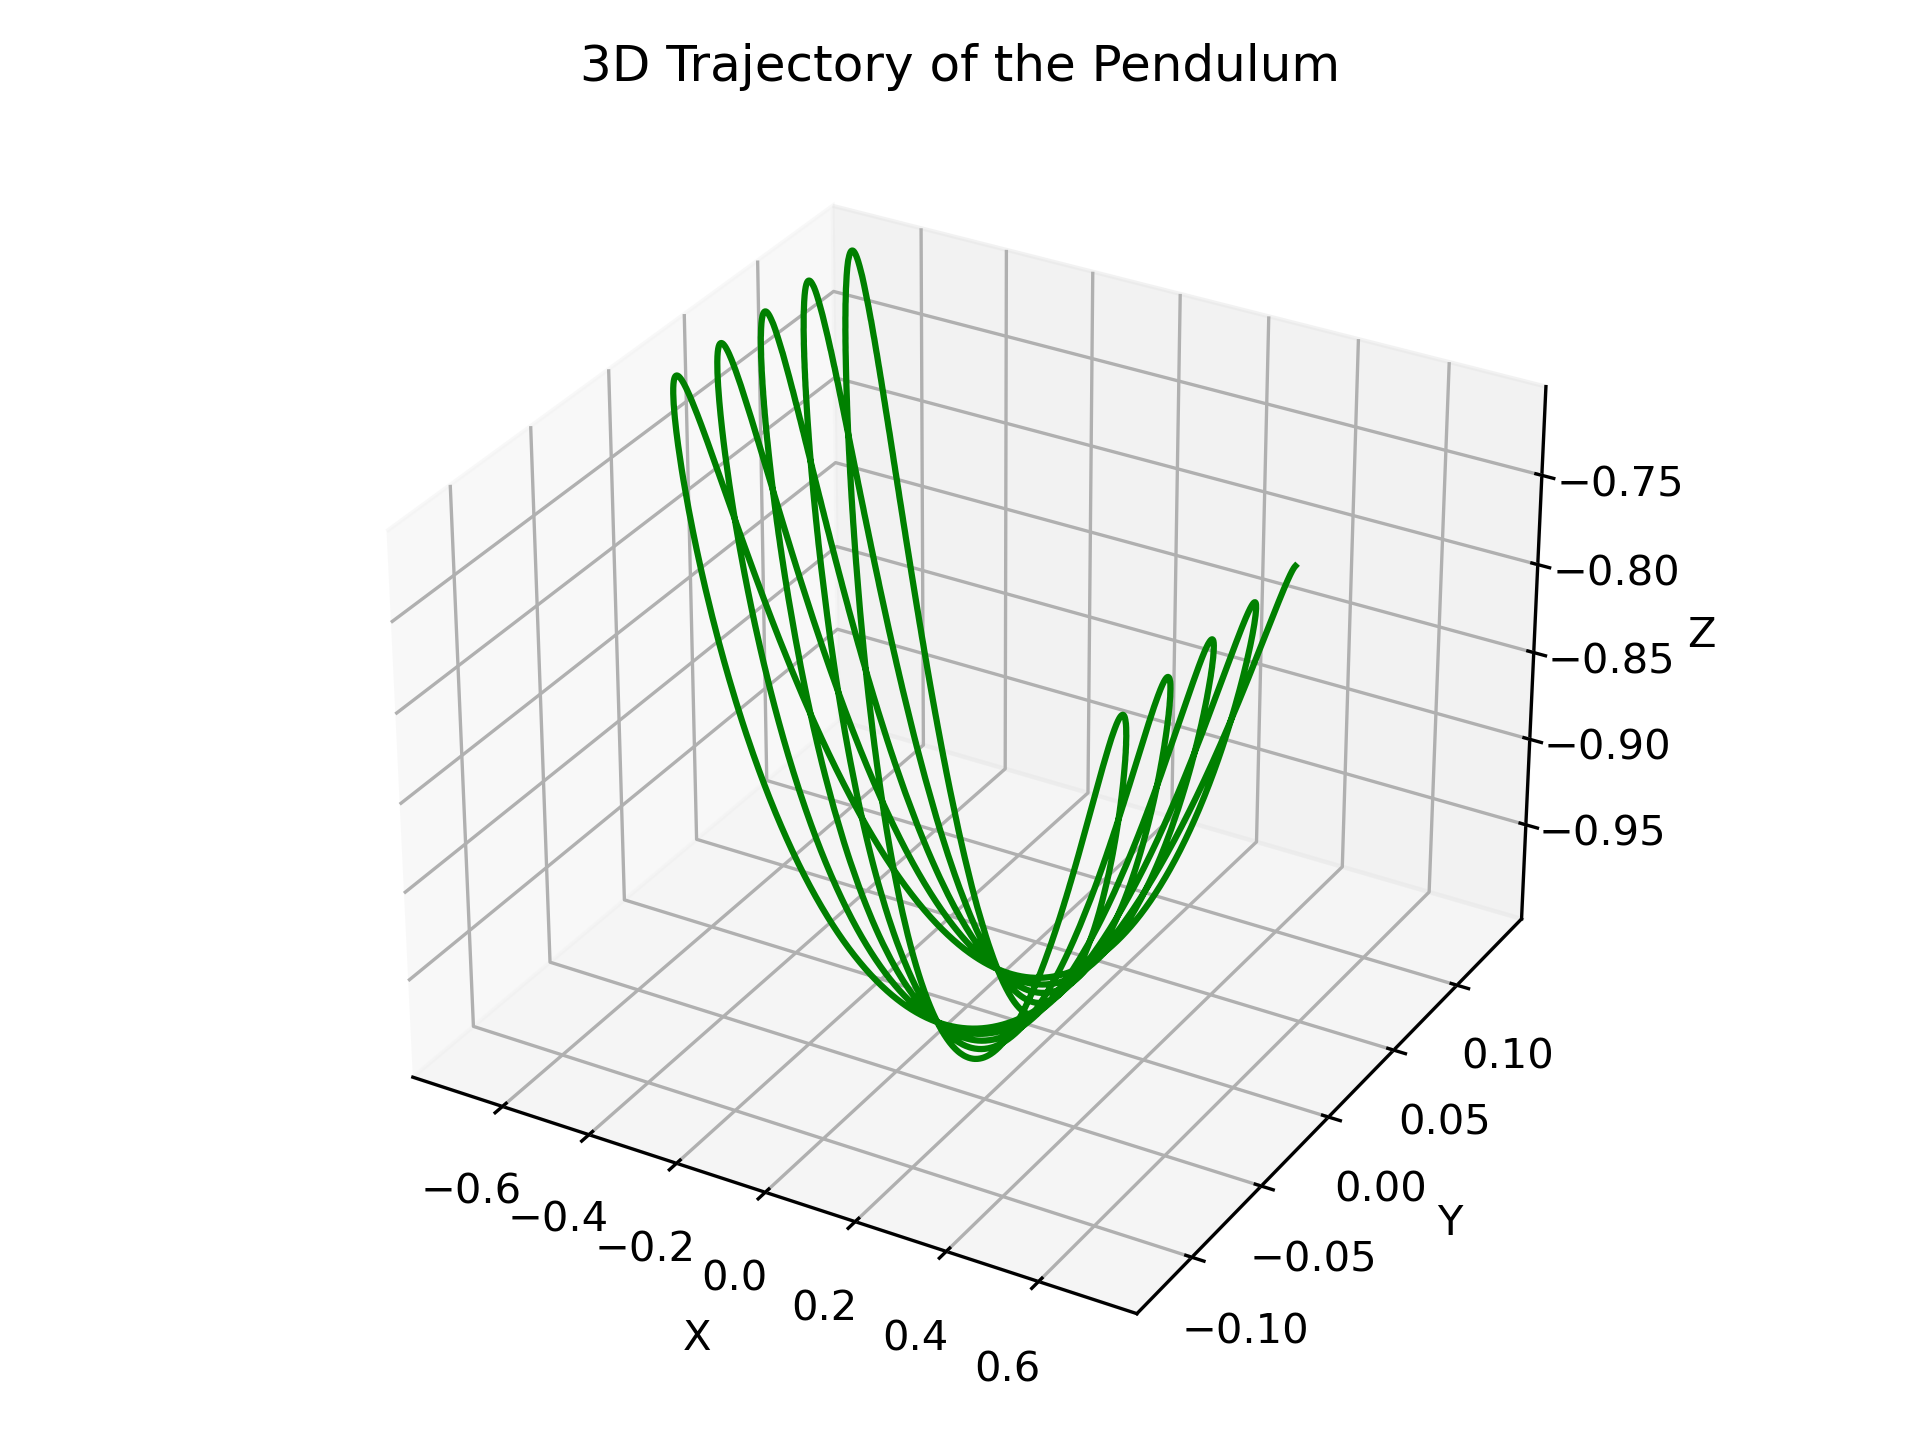
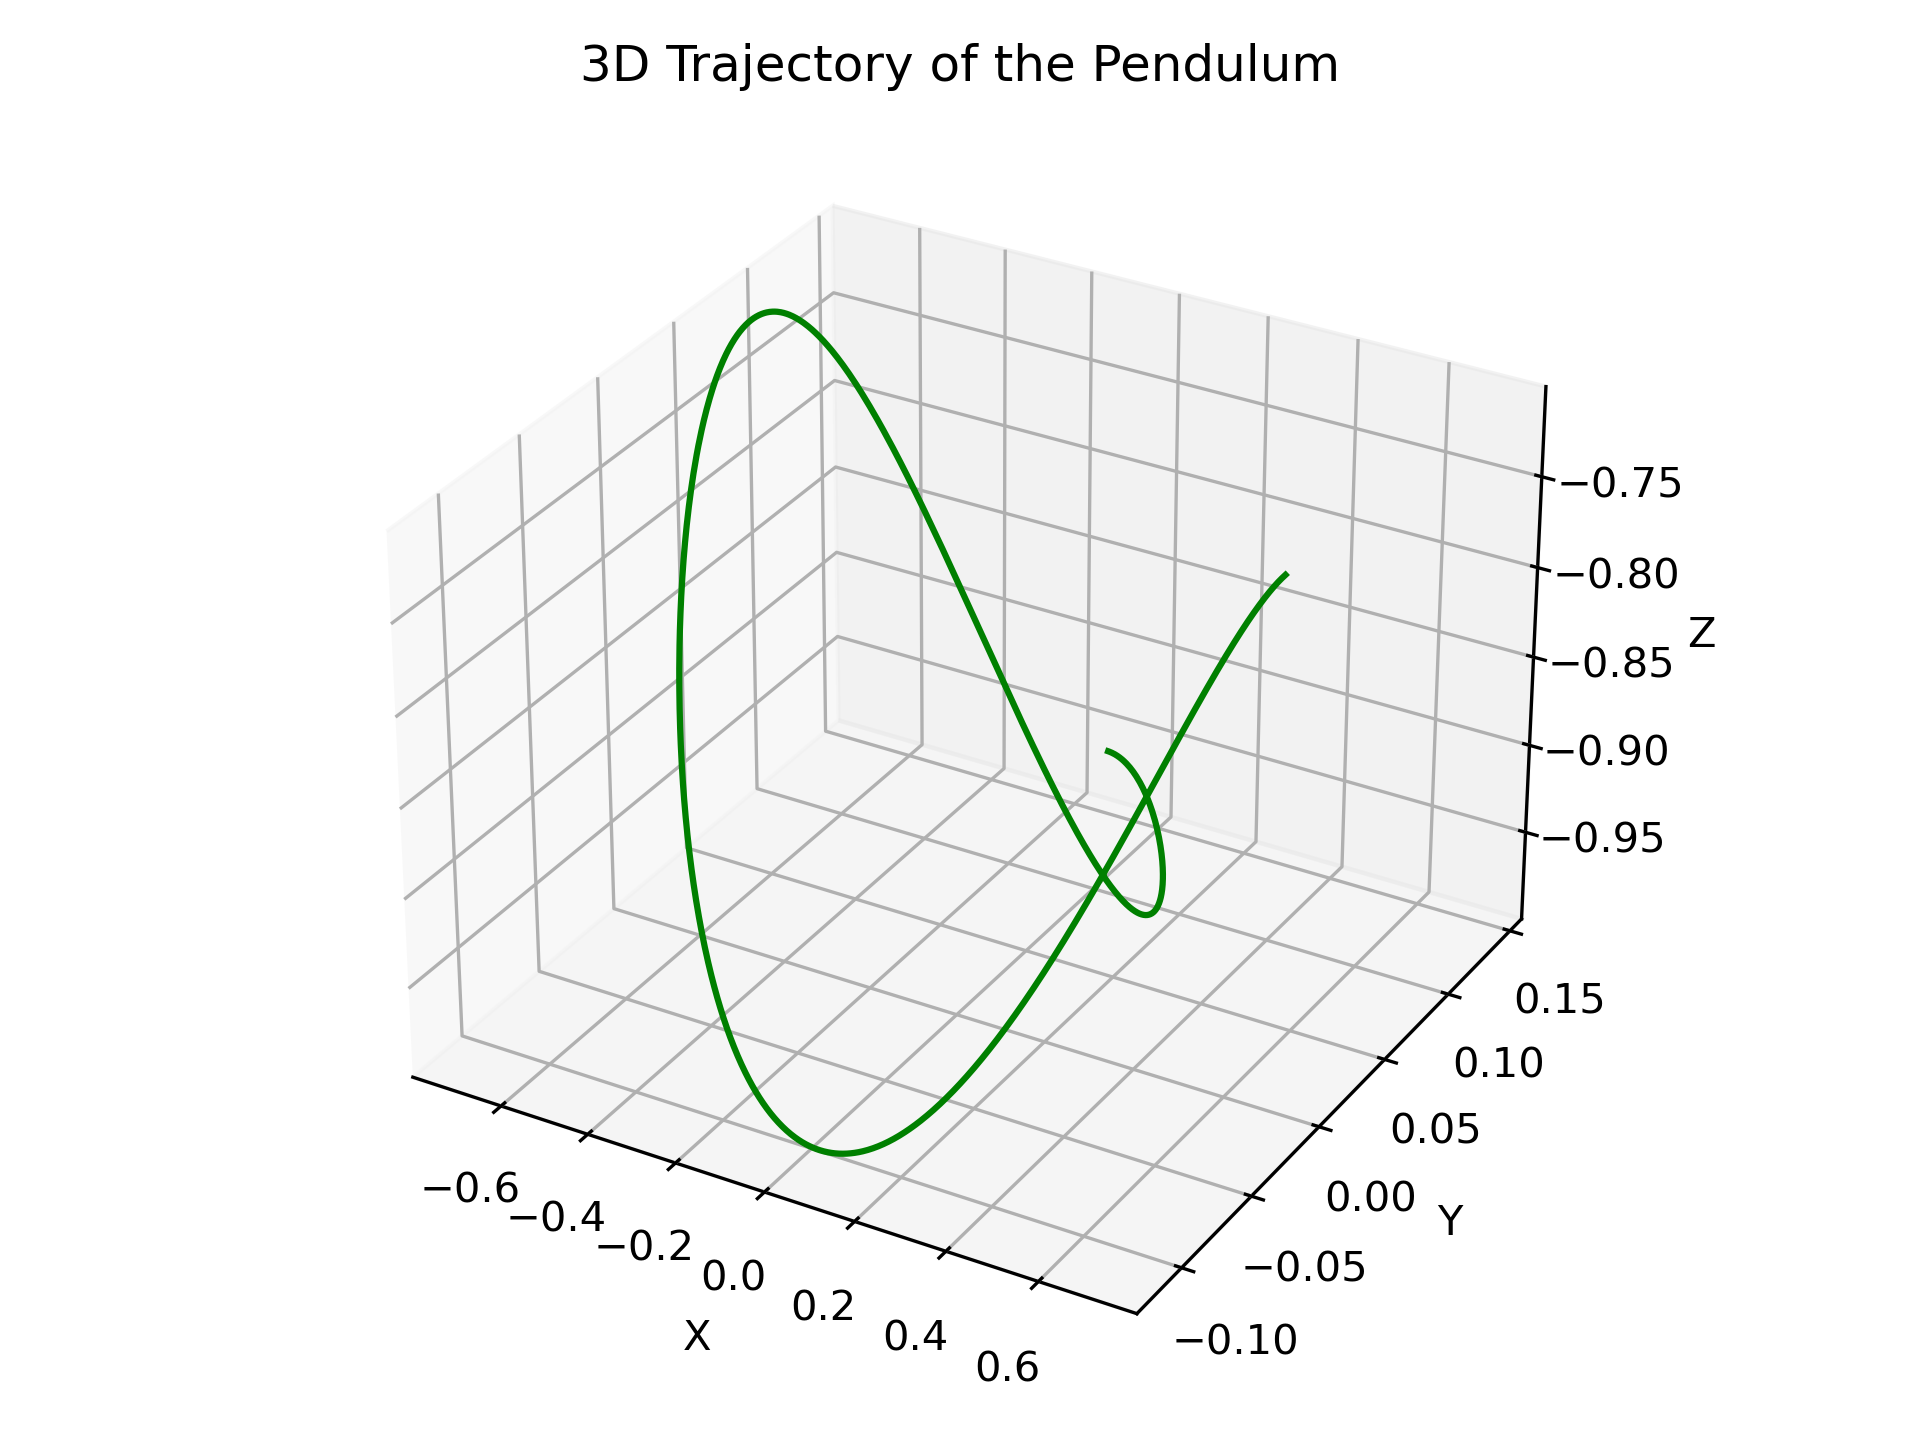
clean the main.cpp and simple_pendulum_plot.py files

diff --git a/src/main.cpp b/src/main.cpp
@@ -3,13 +3,13 @@
 
 #include<iostream>
 
-int main(){
+void exe_simple_pendulum(){
     //////////////////////////////// Simple Pendulum Simulation ////////////////////////////////
     // Définition des paramètres du pendule simple
     double length = 1.0;      // Longueur du pendule en mètres
     double mass = 1.0;        // Masse du pendule en kg
     double time_step = 0.001;  // Pas de temps en secondes
-    double final_time = 10; // Temps final en secondes
+    double final_time = 2; // Temps final en secondes
 
     // Création de l'objet SimplePendulum
     SimplePendulum pendulum(length, mass, time_step, final_time);
@@ -18,7 +18,7 @@ int main(){
     double theta0 = M_PI / 4;   // Angle initial (45 degrés) (Ne doit pas être égal à 0 pour observer le mouvement)
     double dtheta0 = 0.0;       // Vitesse angulaire initiale
     double phi0 = 0.0;          // Angle azimutal initial
-    double dphi0 = -0.1;         // Vitesse angulaire azimutale initiale
+    double dphi0 = -0.5;         // Vitesse angulaire azimutale initiale
 
     pendulum.initial_conditions(theta0, dtheta0, phi0, dphi0);
 
@@ -38,25 +38,27 @@ int main(){
     if (result != 0) {
         std::cerr << "Error executing plotting script." << std::endl;
     }
+}
 
+void exe_double_pendulum(){
     //////////////////////////////// Double Pendulum Simulation ////////////////////////////////
     // Définition des paramètres du double pendule
     double length1 = 1.0;      // Longueur du premier pendule en mètres
     double length2 = 1.0;      // Longueur du second pendule en mètres
     double mass1 = 1.0;        // Masse du premier pendule en kg
     double mass2 = 1.0;        // Masse du second pendule en kg
-    time_step = 0.001;  // Pas de temps en secondes
-    final_time = 100; // Temps final en secondes
+    double time_step = 0.001;  // Pas de temps en secondes
+    double final_time = 100; // Temps final en secondes
 
     // Création de l'objet DoublePendulum
     DoublePendulum double_pendulum(length1, length2, mass1, mass2, time_step, final_time);
 
     // Définition des conditions initiales
     double q1 = 0.0;   // Coordonnée stéréographique du premier pendule
-    double q2 = -0.1;   // Coordonnée stéréographique du premier pendule
-    double q3 = 0.1;   // Coordonnée stéréographique du second pendule
+    double q2 = -0.5;   // Coordonnée stéréographique du premier pendule
+    double q3 = 0.5;   // Coordonnée stéréographique du second pendule
     double q4 = 0.0;   // Coordonnée stéréographique du second pendule
-    double p1 = 0.1;   // Impulsion stéréographique du premier pendule
+    double p1 = 0.5;   // Impulsion stéréographique du premier pendule
     double p2 = 0.0;   // Impulsion stéréographique du premier pendule
     double p3 = 0.0;   // Impulsion stéréographique du second pendule
     double p4 = 0.0;   // Impulsion stéréographique du second pendule
@@ -64,14 +66,18 @@ int main(){
     double_pendulum.initial_conditions(q1, q2, q3, q4, p1, p2, p3, p4);
 
     // Exécution de la simulation et enregistrement des résultats
-    const char* double_output_file = "../data/double_pendulum_output_bis.txt";
+    const char* double_output_file = "../data/double_pendulum_output.txt";
     double_pendulum.rk_4(double_output_file);
     // Run plotting script
     std::string double_cmd = "python3 ../src/double_pendulum_plot.py";
-    result = std::system(double_cmd.c_str());
+    int result = std::system(double_cmd.c_str());
     if (result != 0) {
         std::cerr << "Error executing double pendulum plotting script." << std::endl;
     }
+}
 
+int main(){
+    exe_simple_pendulum();
+    // exe_double_pendulum();
     return 0;
 }

diff --git a/src/simple_pendulum_plot.py b/src/simple_pendulum_plot.py
@@ -49,7 +49,7 @@ ax.set_zlabel('Z')
 plt.tight_layout()
 plt.savefig('../image/trajectory_1pend.png', dpi=300)
 
-########################### Data for multiple pendulums and plotting, animation ###########################
+########################## Data for multiple pendulums and plotting, animation ###########################
 # nb_simulations = 5  # Number of simulations
 # multi_output_file = '../data/simple_pendulum_output'
 # Coord_files = np.array([np.loadtxt(f'{multi_output_file}_sim_{i}.txt', delimiter=' ') for i in range(nb_simulations)])
